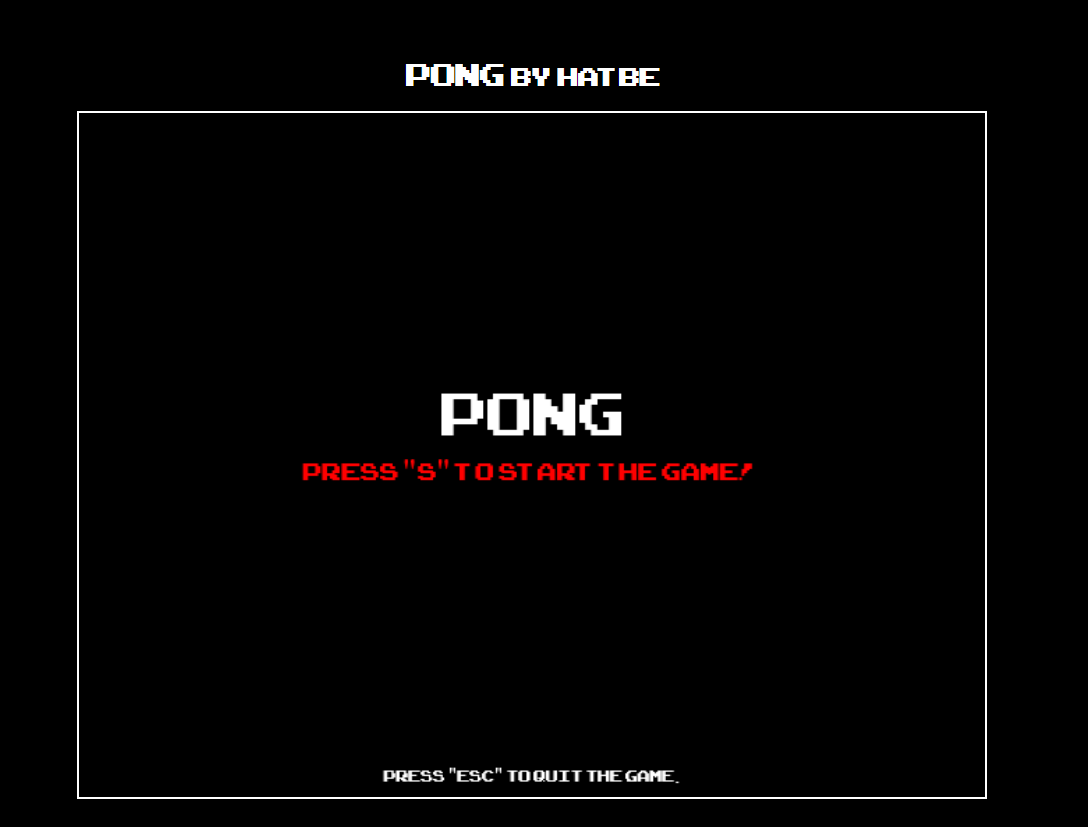
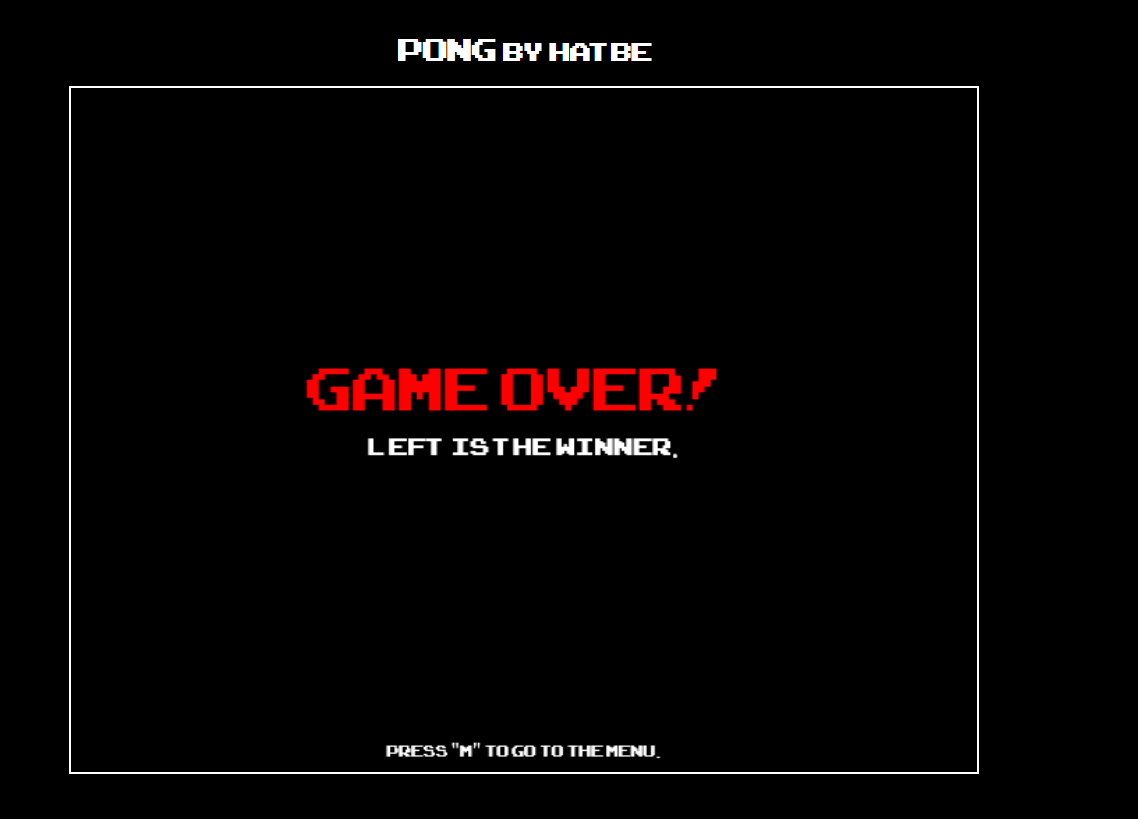
add game over screenshoit

diff --git a/README.md b/README.md
@@ -1,9 +1,9 @@
-In this repository i add all cool little ideas i have.
+In this repository i add all cool little ideas i have, that dont deserve a own repository.
 
 Some examples:
 
 - A Pong Game with vanilla JS
-- a Tic Tac Toe Game for the JS console
+- A Tic Tac Toe Game for the JS console
 - ...
 
 Have a look! You can open the folders and see screenshots of the project.
